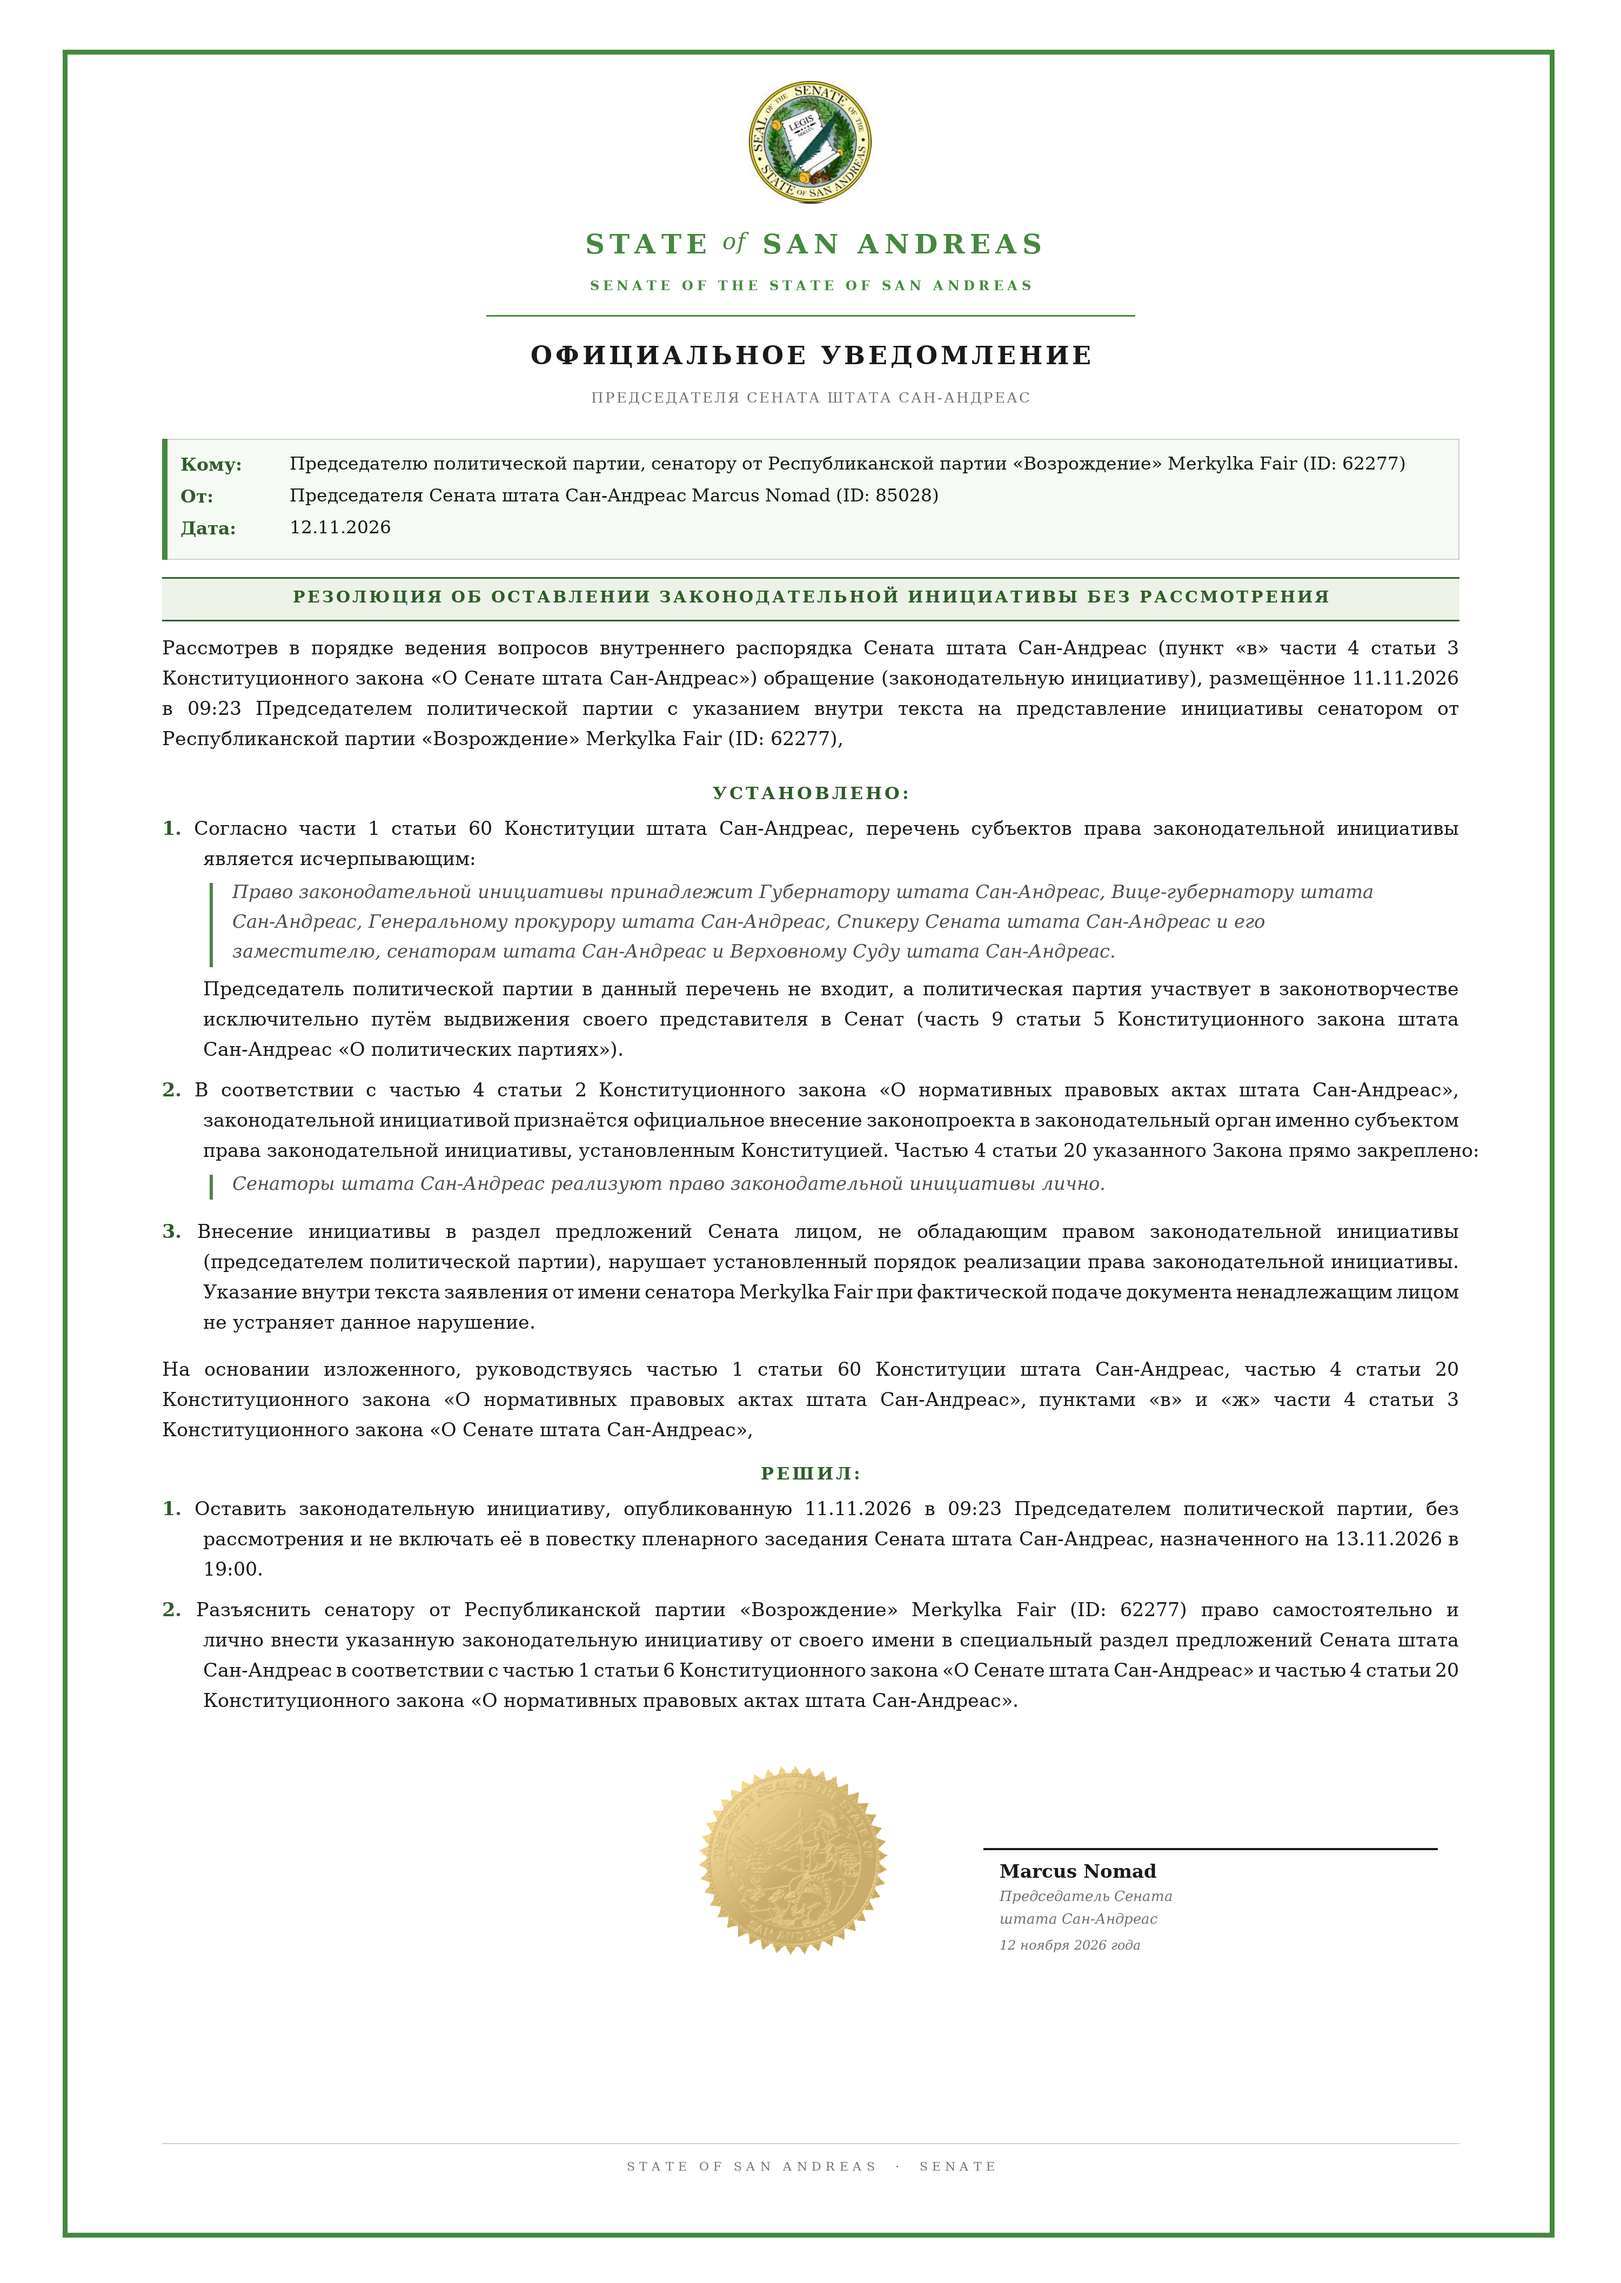
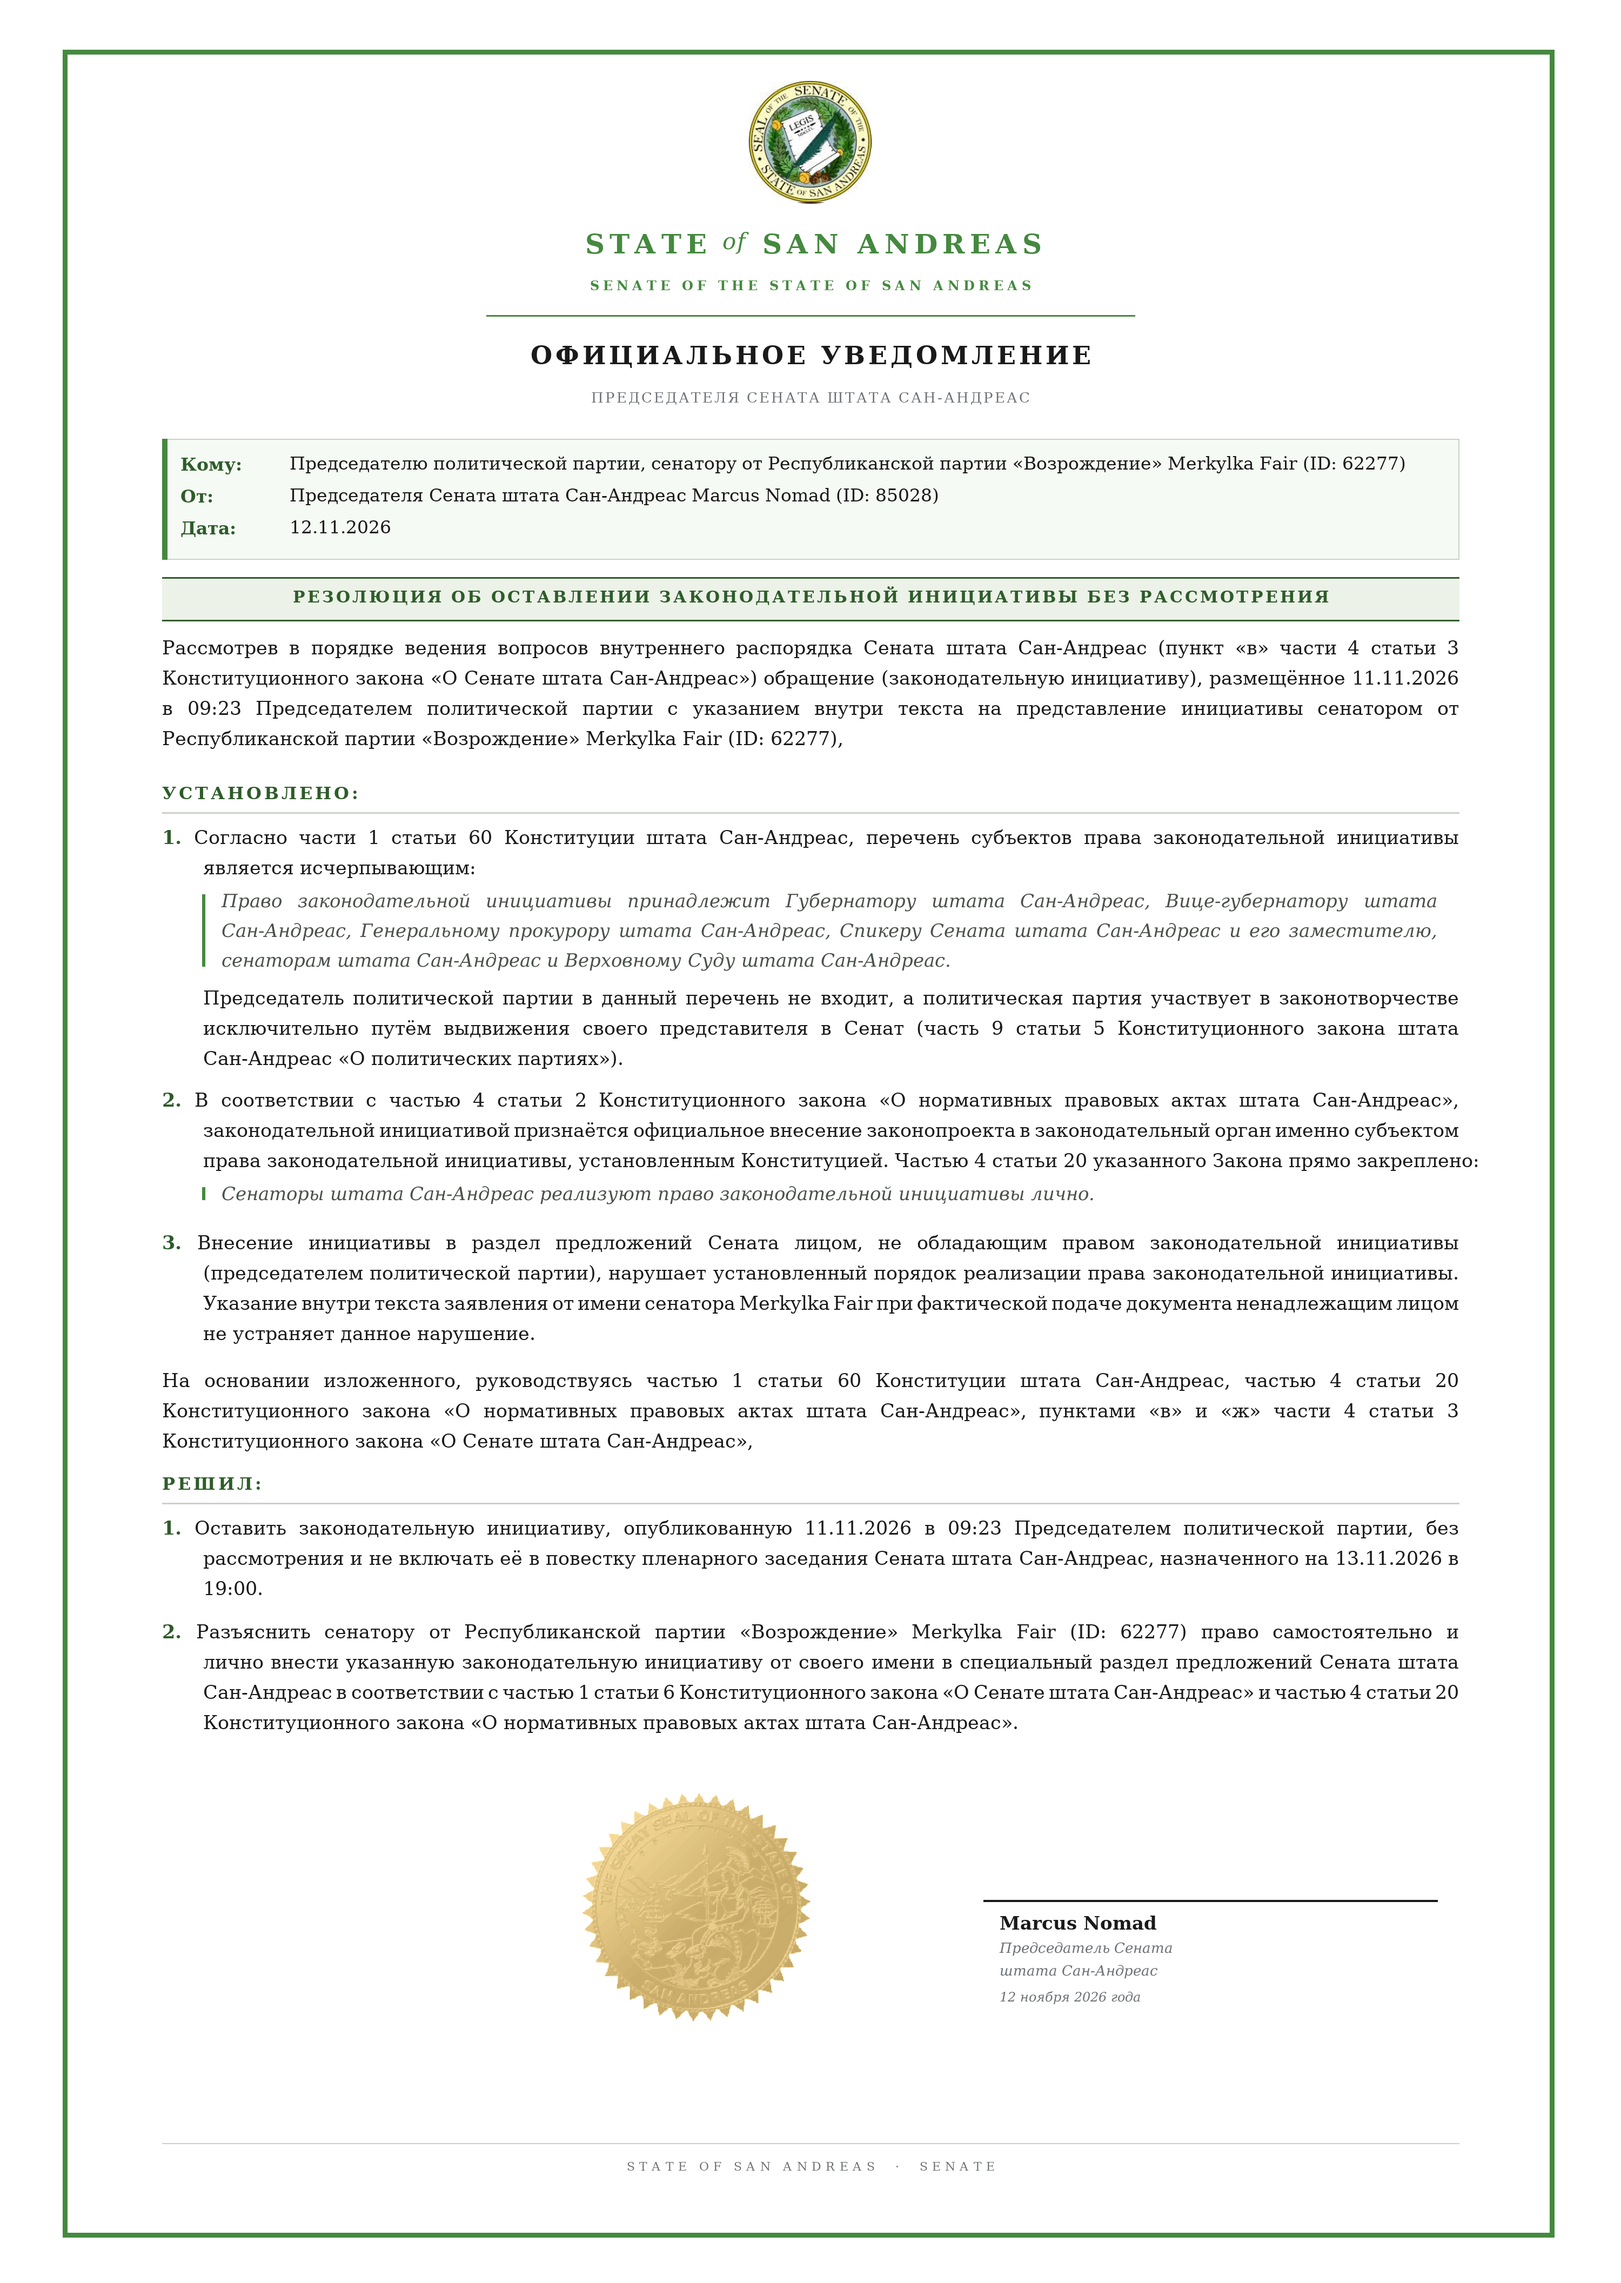
Уведомление: заголовки по левому краю, выключка цитаты, печать крупнее и левее

Changed region(s): [[0.093, 0.3437, 0.899, 0.906], [0.62, 0.8123, 0.713, 0.8748]]

diff --git a/tools/make_senat_notice_png.py b/tools/make_senat_notice_png.py
@@ -92,22 +92,21 @@ def frame(d, draw=True):
 def center_head(d, y, text, size=33, draw=True, space_before=10):
     y += space_before
     font = F(FB, size)
-    tracked(d, y, text, font, 5, GREEN_D, draw=draw)
-    return y + int(size * 2.0)
+    tracked(d, y, text, font, 5, GREEN_D, draw=draw, left=True)
+    if draw:
+        d.line([(BODY_L, y + int(size * 1.75)), (BODY_R, y + int(size * 1.75))],
+               fill=RULE, width=3)
+    return y + int(size * 2.55)
 
 
 def quote(d, y, text, size=None, draw=True, space=18):
     size = size or SIZE
-    font = F(FI, size)
-    lh = int(size * LH)
-    lines = wrap(d, text, font, BODY_W - 230)
+    bar = BODY_L + 76
+    y2 = para(d, y, [(text, "i", (74, 80, 74))], left=bar + 34,
+              width=BODY_W - 150, size=size, draw=draw, space_after=0)
     if draw:
-        top = y + 4
-        d.line([(BODY_L + 90, top), (BODY_L + 90, y + len(lines) * lh - 6)], fill=GREEN,
-               width=6)
-        for i, ln in enumerate(lines):
-            d.text((BODY_L + 130, y + i * lh), ln, font=font, fill=(74, 80, 74))
-    return y + len(lines) * lh + space
+        d.line([(bar, y + 8), (bar, y2 - 24)], fill=GREEN, width=6)
+    return y2 + space
 
 
 def address_box(d, y, size=None, draw=True):
@@ -164,7 +163,7 @@ def item(d, y, num, text, quote_text=None, tail=None, size=None, draw=True, afte
     if tail:
         y = para(d, y, [(tail, "r", INK)], left=BODY_L + hang, width=BODY_W - hang,
                  size=size, draw=draw, space_after=0)
-    return y + (after if after is not None else int(size * 0.62))
+    return y + (after if after is not None else int(size * 0.68))
 
 
 def top_band(d, draw=True, page_no=2, total=2):
@@ -201,15 +200,15 @@ def body(d, draw=True):
              space_after=int(SIZE * 0.7))
     y = center_head(d, y, "УСТАНОВЛЕНО:", size=32, draw=draw, space_before=22)
     for num, text, q, tail in ITEMS:
-        y = item(d, y, num, text, q, tail, draw=draw, after=int(SIZE * 0.55))
+        y = item(d, y, num, text, q, tail, draw=draw, after=int(SIZE * 0.60))
 
-    y += int(SIZE * 0.35)
+    y += int(SIZE * 0.30)
     y = para(d, y, [(BASIS, "r", INK)], size=SIZE, draw=draw,
-             space_after=int(SIZE * 0.75))
+             space_after=int(SIZE * 0.70))
     y = center_head(d, y, "РЕШИЛ:", size=32, draw=draw, space_before=0)
     for num, text in DECISIONS:
         y = para(d, y, [(num + " ", "b", GREEN_D), (text, "r", INK)], hang=76,
-                 size=SIZE, draw=draw, space_after=int(SIZE * 0.55))
+                 size=SIZE, draw=draw, space_after=int(SIZE * 0.70))
     return y
 
 
@@ -221,13 +220,13 @@ def signature(d, sy, draw=True):
     d.text((1850, sy + 314), "12 ноября 2026 года", font=F(FI, 24), fill=MUTED)
 
     seal = Image.open(os.path.join(ASSETS, "great_seal.png")).convert("RGBA")
-    seal = seal.resize((356, 356), Image.LANCZOS)
+    seal = seal.resize((430, 430), Image.LANCZOS)
     r, g, b, a = seal.split()
     r = r.point(lambda v: int(max(0, min(255, (v - 112) * 1.42 + 92))))
     g = g.point(lambda v: int(max(0, min(255, (v - 100) * 1.42 + 80))))
     b = b.point(lambda v: int(max(0, min(255, (v - 74) * 1.42 + 54))))
     seal = Image.merge("RGBA", (r, g, b, a))
-    d._image.paste(seal, (1290, sy - 6), seal)
+    d._image.paste(seal, (1074, sy - 52), seal)
 
     d.line([(BODY_L, 3966), (BODY_R, 3966)], fill=RULE, width=2)
     tracked(d, 3996, "STATE OF SAN ANDREAS  ·  SENATE", F(FR, 22), 8, MUTED)
@@ -236,7 +235,7 @@ def signature(d, sy, draw=True):
 
 def page(d, draw=True):
     y = body(d, draw)
-    sy = max(y + 70, 3180)
+    sy = max(y + 120, 3180)
     if sy + 400 > 3900:
         sy = 3900 - 400
     if draw:
